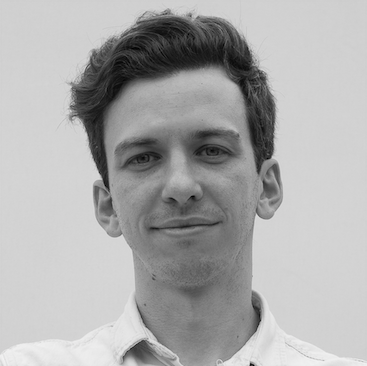
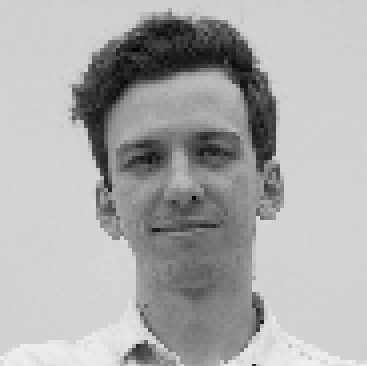
Update photos

diff --git a/src/components/Root.vue b/src/components/Root.vue
@@ -4,11 +4,11 @@
     <div class="about-us">
       <div class="about-us__profiles">
         <a class="about-us__profile" href="https://asone.studio/about-us" target="_blank">
-          <img class="about-us__profile-photo" src="src/assets/about-us__cesar--pixelated.jpg" alt="Cesar Kohl">
+          <img class="about-us__profile-photo" src="src/assets/about-us__cesar.jpg" alt="Cesar Kohl">
           <p class="about-us__profile-subtitle">Cesar Kohl</p>
         </a>
         <a class="about-us__profile" href="https://asone.studio/about-us" target="_blank">
-          <img class="about-us__profile-photo" src="src/assets/about-us__julie--pixelated.jpg" alt="Julie Kohl">
+          <img class="about-us__profile-photo" src="src/assets/about-us__julie.jpg" alt="Julie Kohl">
           <p class="about-us__profile-subtitle">Julie Kohl</p>
         </a>
       </div>
